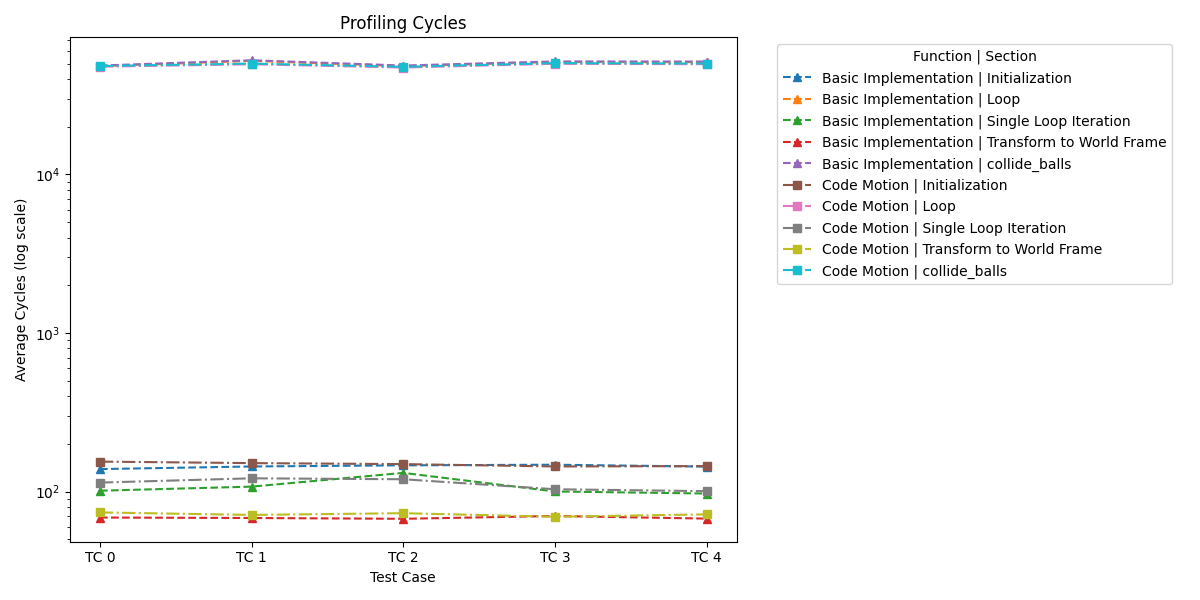
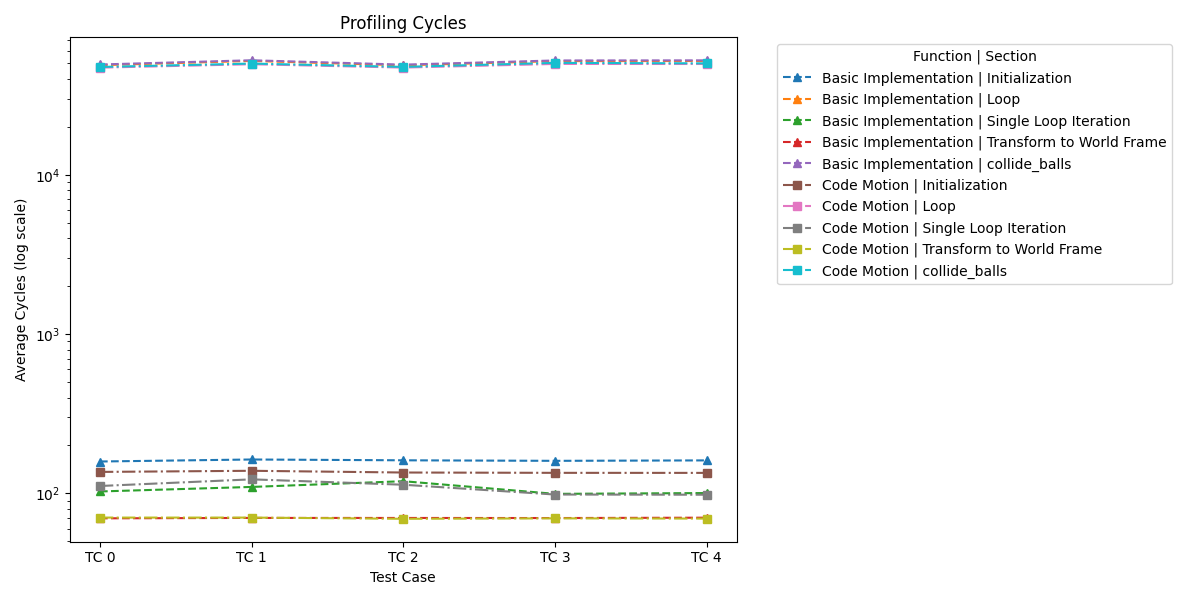
added memory tracking for load and stores

diff --git a/src/pool.c b/src/pool.c
@@ -15,7 +15,7 @@
 
 #ifdef FLOP_COUNT
 
-#define FLOPS(count, ...) \
+    #define FLOPS(count, ...) \
     do { \
         void *arr[] = { __VA_ARGS__ }; \
         for (size_t i = 0; i < sizeof(arr)/sizeof(void*); i++) { \
@@ -23,14 +23,29 @@
         } \
     } while(0)
 
+    #define MEMORY(count, ...) \
+    do { \
+        void *arr[] = { __VA_ARGS__ }; \
+        for (size_t i = 0; i < sizeof(arr)/sizeof(void*); i++) { \
+            ((Profile*)arr[i])->memory += (count); \
+        } \
+    } while(0)
+
     #define FLOPS_SINGLE_LOOP(count) \
         if(first_iter) { \
         single_loop_iteration->flops += count; \
         }
+
+    #define MEMORY_SINGLE_LOOP(count) \
+        if(first_iter) { \
+        single_loop_iteration->memory += count; \
+        }
 #else
 
 #define FLOPS(count, ...)
+#define MEMORY(count, ...)
 #define FLOPS_SINGLE_LOOP(count)
+#define MEMORY_SINGLE_LOOP(count)
 
 #endif
 
@@ -56,6 +71,7 @@ static inline void start_profiling_section(Profile* profile) {
     #endif
     profile->cycle_start = __rdtsc();
     profile->flops = 0;
+    profile->memory = 0;
 }
 
 static inline void end_profiling_section(Profile* profile) {
@@ -96,13 +112,15 @@ DLL_EXPORT void collide_balls(double* rvw1, double* rvw2, float R, float M, floa
     START_PROFILE(complete_function);
     START_PROFILE(before_loop);
 
-     double* translation_1 = get_displacement(rvw1);
-     double* velocity_1 = get_velocity(rvw1);
-     double* angular_velocity_1 = get_angular_velocity(rvw1);
+    // Altough the memory is not really loaded here, assuming its only compulsary misses
+    MEMORY(18, complete_function, before_loop);
+    double* translation_1 = get_displacement(rvw1);
+    double* velocity_1 = get_velocity(rvw1);
+    double* angular_velocity_1 = get_angular_velocity(rvw1);
 
-     double* translation_2 = get_displacement(rvw2);
-     double* velocity_2 = get_velocity(rvw2);
-     double* angular_velocity_2 = get_angular_velocity(rvw2);
+    double* translation_2 = get_displacement(rvw2);
+    double* velocity_2 = get_velocity(rvw2);
+    double* angular_velocity_2 = get_angular_velocity(rvw2);
 
     FLOPS(3, complete_function, before_loop);
     double offset[3];
@@ -351,6 +369,7 @@ DLL_EXPORT void collide_balls(double* rvw1, double* rvw2, float R, float M, floa
     // Transform back to global coordinates
     for (int i = 0; i < 3; i++) {
 
+        MEMORY(4, complete_function, after_loop);
         FLOPS(6, complete_function, after_loop);
         rvw1_result[i + 3] = local_velocity_x_1 * right[i] + local_velocity_y_1 * forward[i];
         rvw2_result[i + 3] = local_velocity_x_2 * right[i] + local_velocity_y_2 * forward[i];
@@ -385,6 +404,7 @@ DLL_EXPORT void code_motion_collide_balls(double* rvw1, double* rvw2, float R, f
     START_PROFILE(before_loop);
 
      // Get pointers into the state arrays
+    MEMORY(18, complete_function, before_loop);
     double* translation_1 = &rvw1[0];
     double* velocity_1    = &rvw1[3];
     double* angular_1     = &rvw1[6];
@@ -620,6 +640,7 @@ DLL_EXPORT void code_motion_collide_balls(double* rvw1, double* rvw2, float R, f
 
     // Transform back to global coordinates
     for (int i = 0; i < 3; i++) {
+        MEMORY(4, complete_function, after_loop);
 
         FLOPS(6, complete_function, after_loop);
         rvw1_result[i+3] = local_vel_1[0] * right[i] + local_vel_1[1] * forward[i];

diff --git a/src/flops.c b/src/flops.c
@@ -200,11 +200,11 @@ void call_function(const char* name, CollideBallsFn collide_fn) {
             profiles
         );
 
-        fprintf(csv, "%s,%s,%d,%ld\n", name, "collide_balls", i, profiles[0].flops);
-        fprintf(csv, "%s,%s,%d,%ld\n", name, "Initialization", i, profiles[1].flops);
-        fprintf(csv, "%s,%s,%d,%ld\n", name, "Loop", i, profiles[2].flops);
-        fprintf(csv, "%s,%s,%d,%ld\n", name, "Single Loop Iteration", i, profiles[3].flops);
-        fprintf(csv, "%s,%s,%d,%ld\n", name, "Transform to World Frame", i, profiles[4].flops);
+        fprintf(csv, "%s,%s,%d,%ld,%ld\n", name, "collide_balls", i, profiles[0].flops, profiles[0].memory * sizeof(double));
+        fprintf(csv, "%s,%s,%d,%ld,%ld\n", name, "Initialization", i, profiles[1].flops, profiles[1].memory* sizeof(double));
+        fprintf(csv, "%s,%s,%d,%ld,%ld\n", name, "Loop", i, profiles[2].flops, profiles[2].memory* sizeof(double));
+        fprintf(csv, "%s,%s,%d,%ld,%ld\n", name, "Single Loop Iteration", i, profiles[3].flops, profiles[3].memory* sizeof(double));
+        fprintf(csv, "%s,%s,%d,%ld,%ld\n", name, "Transform to World Frame", i, profiles[4].flops, profiles[4].memory* sizeof(double));
     }
 
     fclose(csv);
@@ -216,7 +216,7 @@ int main() {
         perror("Failed to open CSV file");
         return 0;
     }
-    fprintf(csv, "Function,Section,Test Case,Flops\n");
+    fprintf(csv, "Function,Section,Test Case,Flops,Memory\n");
     fclose(csv);
 
     setUp();

diff --git a/plot.py b/plot.py
@@ -17,7 +17,9 @@ df.columns = df.columns.str.strip()
 
 # Group by Function, Section, and Test Case
 grouped = (
-    df.groupby(["Function", "Section", "Test Case"])[["Nanoseconds", "Cycles", "Flops"]]
+    df.groupby(["Function", "Section", "Test Case"])[
+        ["Nanoseconds", "Cycles", "Flops", "Memory"]
+    ]
     .mean()
     .reset_index()
 )
@@ -36,7 +38,7 @@ marker_styles = {
     "Code Motion": "s",
 }
 
-for col in ["Nanoseconds", "Cycles", "Flops"]:
+for col in ["Nanoseconds", "Cycles", "Flops", "Memory"]:
     # Plotting with Y-axis in log scale and different line styles for each function
     plt.figure(figsize=(12, 6))
 

diff --git a/include/pool.h b/include/pool.h
@@ -65,7 +65,8 @@ def collide_balls(
      #else
          struct timespec start_ts, end_ts;
      #endif
-     long int flops;
+     long int flops; // W
+     long int memory; // Q -> loads and stores
  } Profile;
 
 DLL_EXPORT void collide_balls(double* rvw1, double* rvw2, float R, float M, float u_s1, float u_s2, float u_b, float e_b, float deltaP, int N, double* rvw1_result, double* rvw2_result, Profile* profiles);

diff --git a/src/profiling.c b/src/profiling.c
@@ -3,8 +3,8 @@
 #include <stdio.h>
 #include "unity.h"
 
-#define WARMUP 100
-#define ITERATIONS 100
+#define WARMUP 1000
+#define ITERATIONS 1000
 
 typedef struct {
     float R;          // Ball radius
